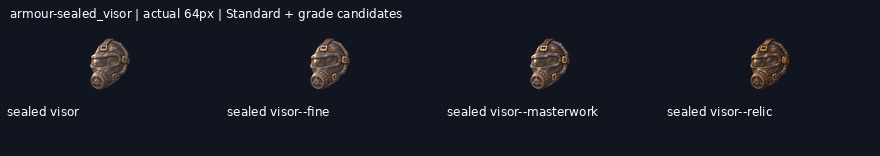
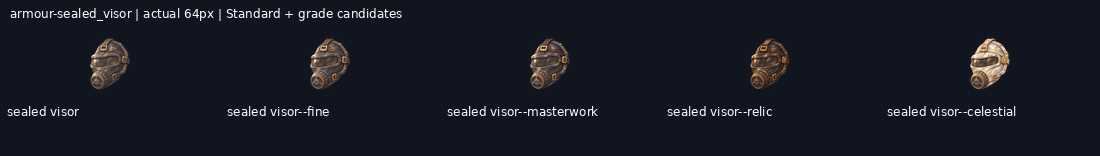
art: draw armour-sealed_visor--celestial grade candidate

diff --git a/art/_archive/gear/2026-11-19-kept-blade-grades/HANDOFF.md b/art/_archive/gear/2026-11-19-kept-blade-grades/HANDOFF.md
@@ -1,6 +1,6 @@
 # Gear grade candidates
 
-**152/208 grade candidates delivered** on `art/2026-11-19-kept-blade-grades`. Shared mailbox: https://github.com/leonpentastorm/Project-Heaven-Cry/issues/3 . See claim.json for this lane’s current Standards. Released overlapping blades reuse12 peer candidates, with3 local alternatives archived.
+**153/208 grade candidates delivered** on `art/2026-11-19-kept-blade-grades`. Shared mailbox: https://github.com/leonpentastorm/Project-Heaven-Cry/issues/3 . See claim.json for this lane’s current Standards. Released overlapping blades reuse12 peer candidates, with3 local alternatives archived.
 
 Leon requested continuous candidate production; proof approval is not fabricated. All candidates remain review-candidate, production_approved:false, implementation_ready:false, with outline.review_required:true. Exact outline is measured, never asserted unless the masks match. Per-image registration is uniform scaling/translation only, without warp, silhouette masks, filled pixels or code-drawn substitutes. The generated native remains untouched.
 
@@ -10,12 +10,12 @@ Tomorrow: fetch this branch and develop safely, read the latest issue 3 comments
 
 Peer audit: [coordination/peer-audit-2026-11-19.md](coordination/peer-audit-2026-11-19.md). Peer58 masters/232 exports and12 canonical imports are integrated with versioned alpha<8 cleanup; originals are retained. See coordination/peer-import-v2/manifest.json and post-catalog VALIDATION.json (strict margins pass, solid alpha unchanged). Peer quota resets20 November2026 at09:45:39 Bangkok time; this does not establish this session’s quota.
 
-Remaining: weapon-ork_machete--masterwork, weapon-ork_machete--relic, weapon-ork_machete--celestial, weapon-war_axe--fine, weapon-war_axe--masterwork, weapon-war_axe--relic, weapon-war_axe--celestial, weapon-parlour_pistol--fine, weapon-parlour_pistol--masterwork, weapon-parlour_pistol--relic, weapon-parlour_pistol--celestial, weapon-lever_carbine--fine, weapon-lever_carbine--masterwork, weapon-lever_carbine--relic, weapon-lever_carbine--celestial, weapon-sawn_off--fine, weapon-sawn_off--masterwork, weapon-sawn_off--relic, weapon-sawn_off--celestial, weapon-coach_gun--fine, weapon-coach_gun--masterwork, weapon-coach_gun--relic, weapon-coach_gun--celestial, weapon-legion_bullpup--fine, weapon-legion_bullpup--masterwork, weapon-legion_bullpup--relic, weapon-legion_bullpup--celestial, weapon-whisper_smg--fine, weapon-whisper_smg--masterwork, weapon-whisper_smg--relic, weapon-whisper_smg--celestial, armour-sealed_visor--celestial, armour-breacher_plate--fine, armour-breacher_plate--masterwork, armour-breacher_plate--relic, armour-breacher_plate--celestial, armour-mesh_undersuit--fine, armour-mesh_undersuit--masterwork, armour-mesh_undersuit--relic, armour-mesh_undersuit--celestial, armour-rig_belt--fine, armour-rig_belt--masterwork, armour-rig_belt--relic, armour-rig_belt--celestial, armour-field_trousers--fine, armour-field_trousers--masterwork, armour-field_trousers--relic, armour-field_trousers--celestial, armour-tactical_gloves--fine, armour-tactical_gloves--masterwork, armour-tactical_gloves--relic, armour-tactical_gloves--celestial, armour-jump_boots--fine, armour-jump_boots--masterwork, armour-jump_boots--relic, armour-jump_boots--celestial.
+Remaining: weapon-ork_machete--masterwork, weapon-ork_machete--relic, weapon-ork_machete--celestial, weapon-war_axe--fine, weapon-war_axe--masterwork, weapon-war_axe--relic, weapon-war_axe--celestial, weapon-parlour_pistol--fine, weapon-parlour_pistol--masterwork, weapon-parlour_pistol--relic, weapon-parlour_pistol--celestial, weapon-lever_carbine--fine, weapon-lever_carbine--masterwork, weapon-lever_carbine--relic, weapon-lever_carbine--celestial, weapon-sawn_off--fine, weapon-sawn_off--masterwork, weapon-sawn_off--relic, weapon-sawn_off--celestial, weapon-coach_gun--fine, weapon-coach_gun--masterwork, weapon-coach_gun--relic, weapon-coach_gun--celestial, weapon-legion_bullpup--fine, weapon-legion_bullpup--masterwork, weapon-legion_bullpup--relic, weapon-legion_bullpup--celestial, weapon-whisper_smg--fine, weapon-whisper_smg--masterwork, weapon-whisper_smg--relic, weapon-whisper_smg--celestial, armour-breacher_plate--fine, armour-breacher_plate--masterwork, armour-breacher_plate--relic, armour-breacher_plate--celestial, armour-mesh_undersuit--fine, armour-mesh_undersuit--masterwork, armour-mesh_undersuit--relic, armour-mesh_undersuit--celestial, armour-rig_belt--fine, armour-rig_belt--masterwork, armour-rig_belt--relic, armour-rig_belt--celestial, armour-field_trousers--fine, armour-field_trousers--masterwork, armour-field_trousers--relic, armour-field_trousers--celestial, armour-tactical_gloves--fine, armour-tactical_gloves--masterwork, armour-tactical_gloves--relic, armour-tactical_gloves--celestial, armour-jump_boots--fine, armour-jump_boots--masterwork, armour-jump_boots--relic, armour-jump_boots--celestial.
 
 Service-rejected requests (do not repeatedly resubmit): weapon-coach_gun--fine, weapon-legion_bullpup--fine, weapon-lever_carbine--fine, weapon-ork_machete--masterwork, weapon-parlour_pistol--fine, weapon-sawn_off--fine, weapon-war_axe--fine, weapon-whisper_smg--fine.
 
 Waiting on rejected prerequisites: weapon-coach_gun--celestial, weapon-coach_gun--masterwork, weapon-coach_gun--relic, weapon-legion_bullpup--celestial, weapon-legion_bullpup--masterwork, weapon-legion_bullpup--relic, weapon-lever_carbine--celestial, weapon-lever_carbine--masterwork, weapon-lever_carbine--relic, weapon-ork_machete--celestial, weapon-ork_machete--relic, weapon-parlour_pistol--celestial, weapon-parlour_pistol--masterwork, weapon-parlour_pistol--relic, weapon-sawn_off--celestial, weapon-sawn_off--masterwork, weapon-sawn_off--relic, weapon-war_axe--celestial, weapon-war_axe--masterwork, weapon-war_axe--relic, weapon-whisper_smg--celestial, weapon-whisper_smg--masterwork, weapon-whisper_smg--relic.
 
-Ready independent next steps, in queue order: armour-sealed_visor--celestial, armour-breacher_plate--fine, armour-mesh_undersuit--fine, armour-rig_belt--fine, armour-field_trousers--fine, armour-tactical_gloves--fine, armour-jump_boots--fine. Other pending grades follow their preceding grade.
+Ready independent next steps, in queue order: armour-breacher_plate--fine, armour-mesh_undersuit--fine, armour-rig_belt--fine, armour-field_trousers--fine, armour-tactical_gloves--fine, armour-jump_boots--fine. Other pending grades follow their preceding grade.
 
 Runtime handoff: implementation_ready:false records review status but does not gate the web asset builder. The builder emits grade asset keys; the current UI gear resolver still needs grade-aware selection. Do not claim that runtime grade selection is implemented by these art deliveries.
